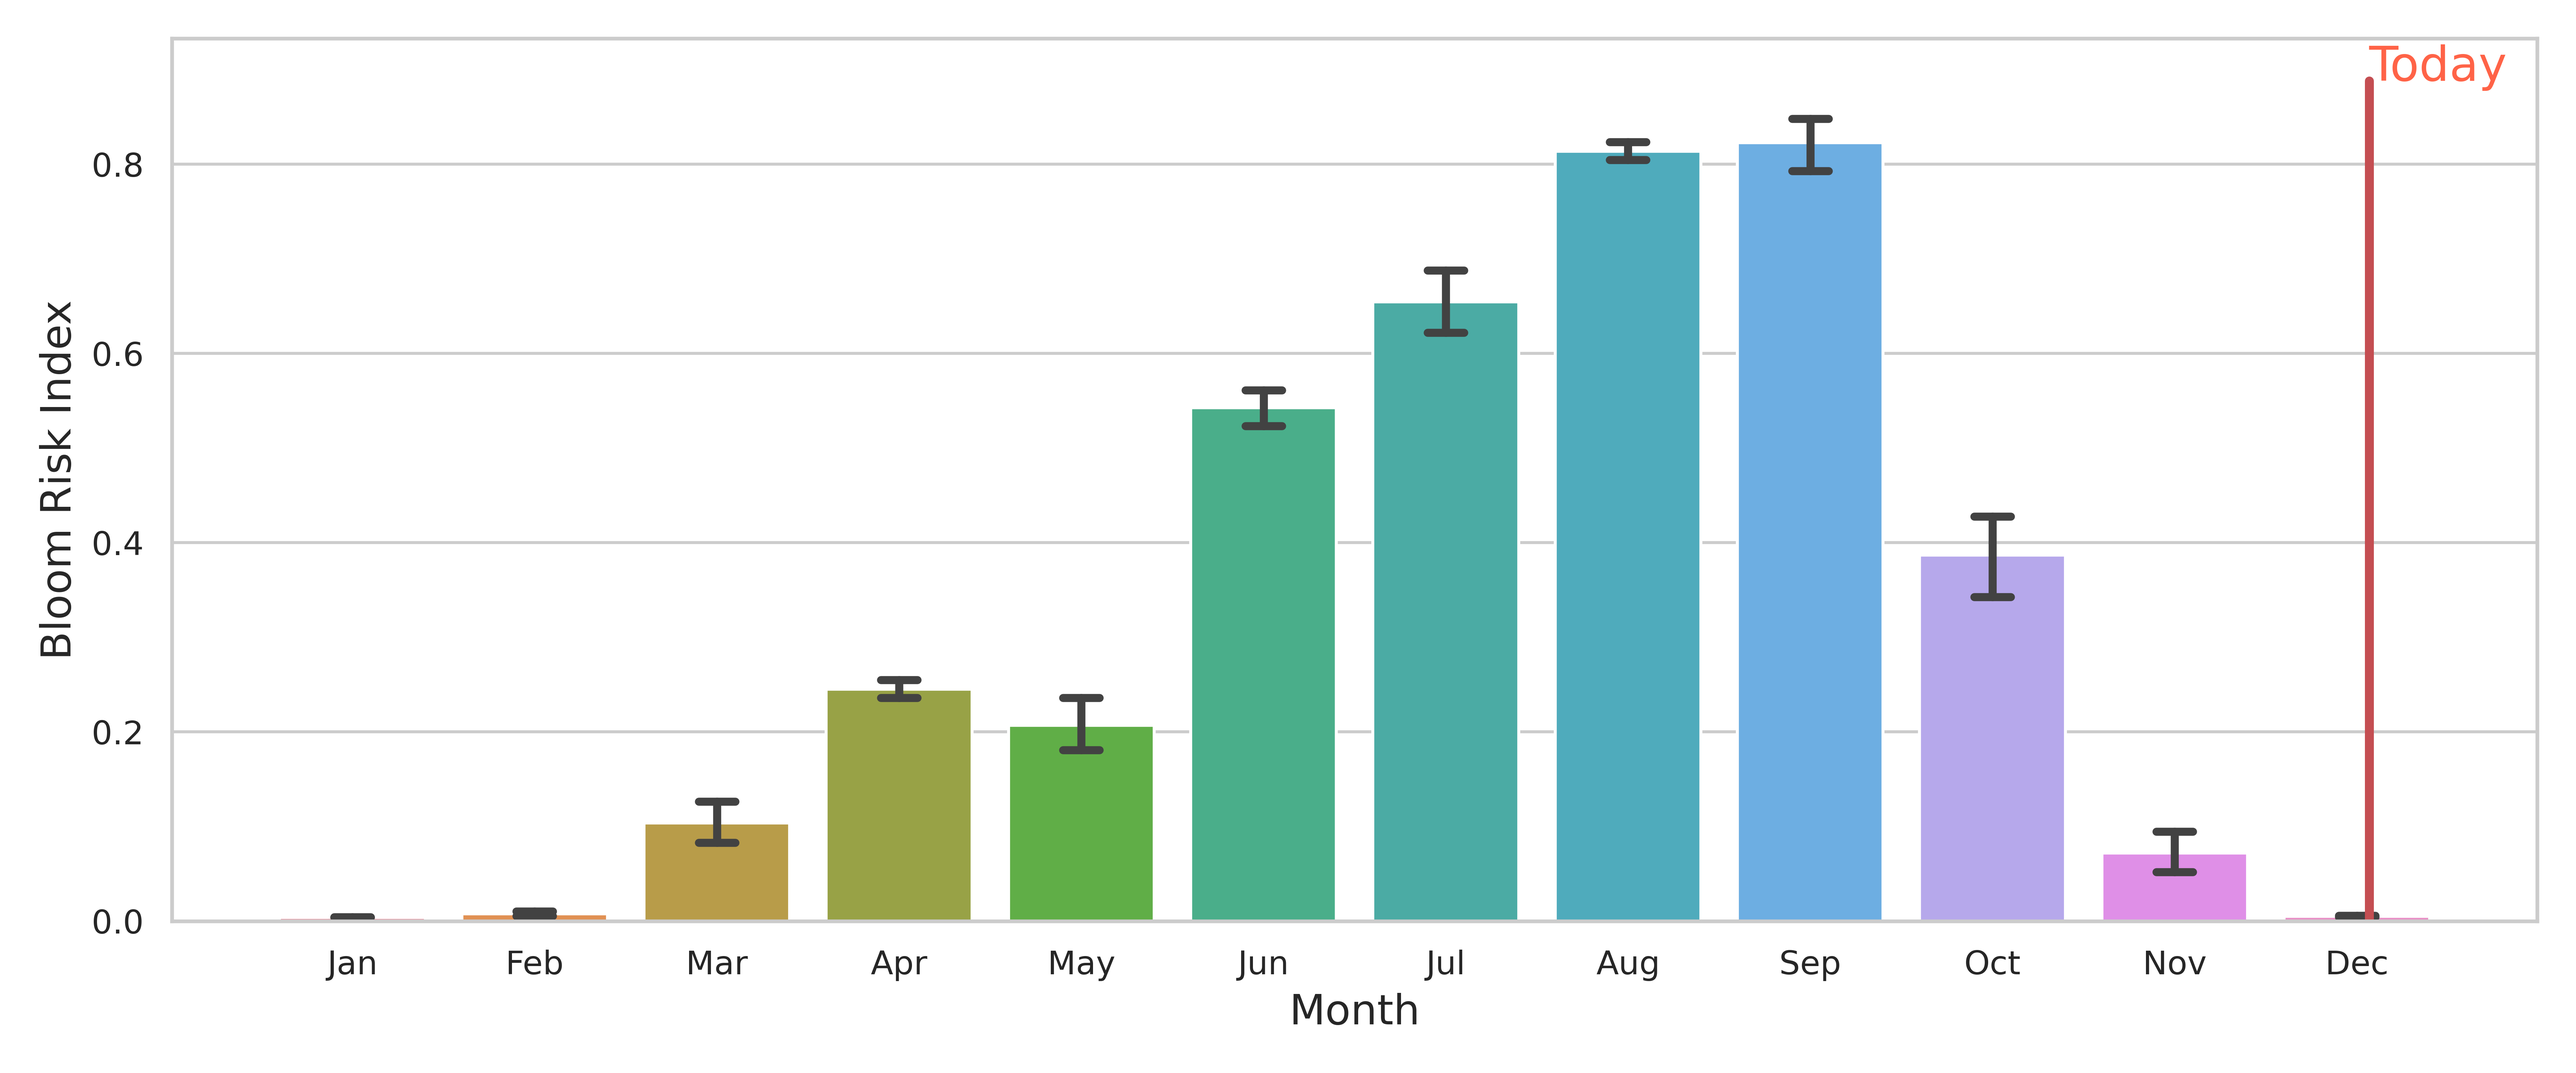
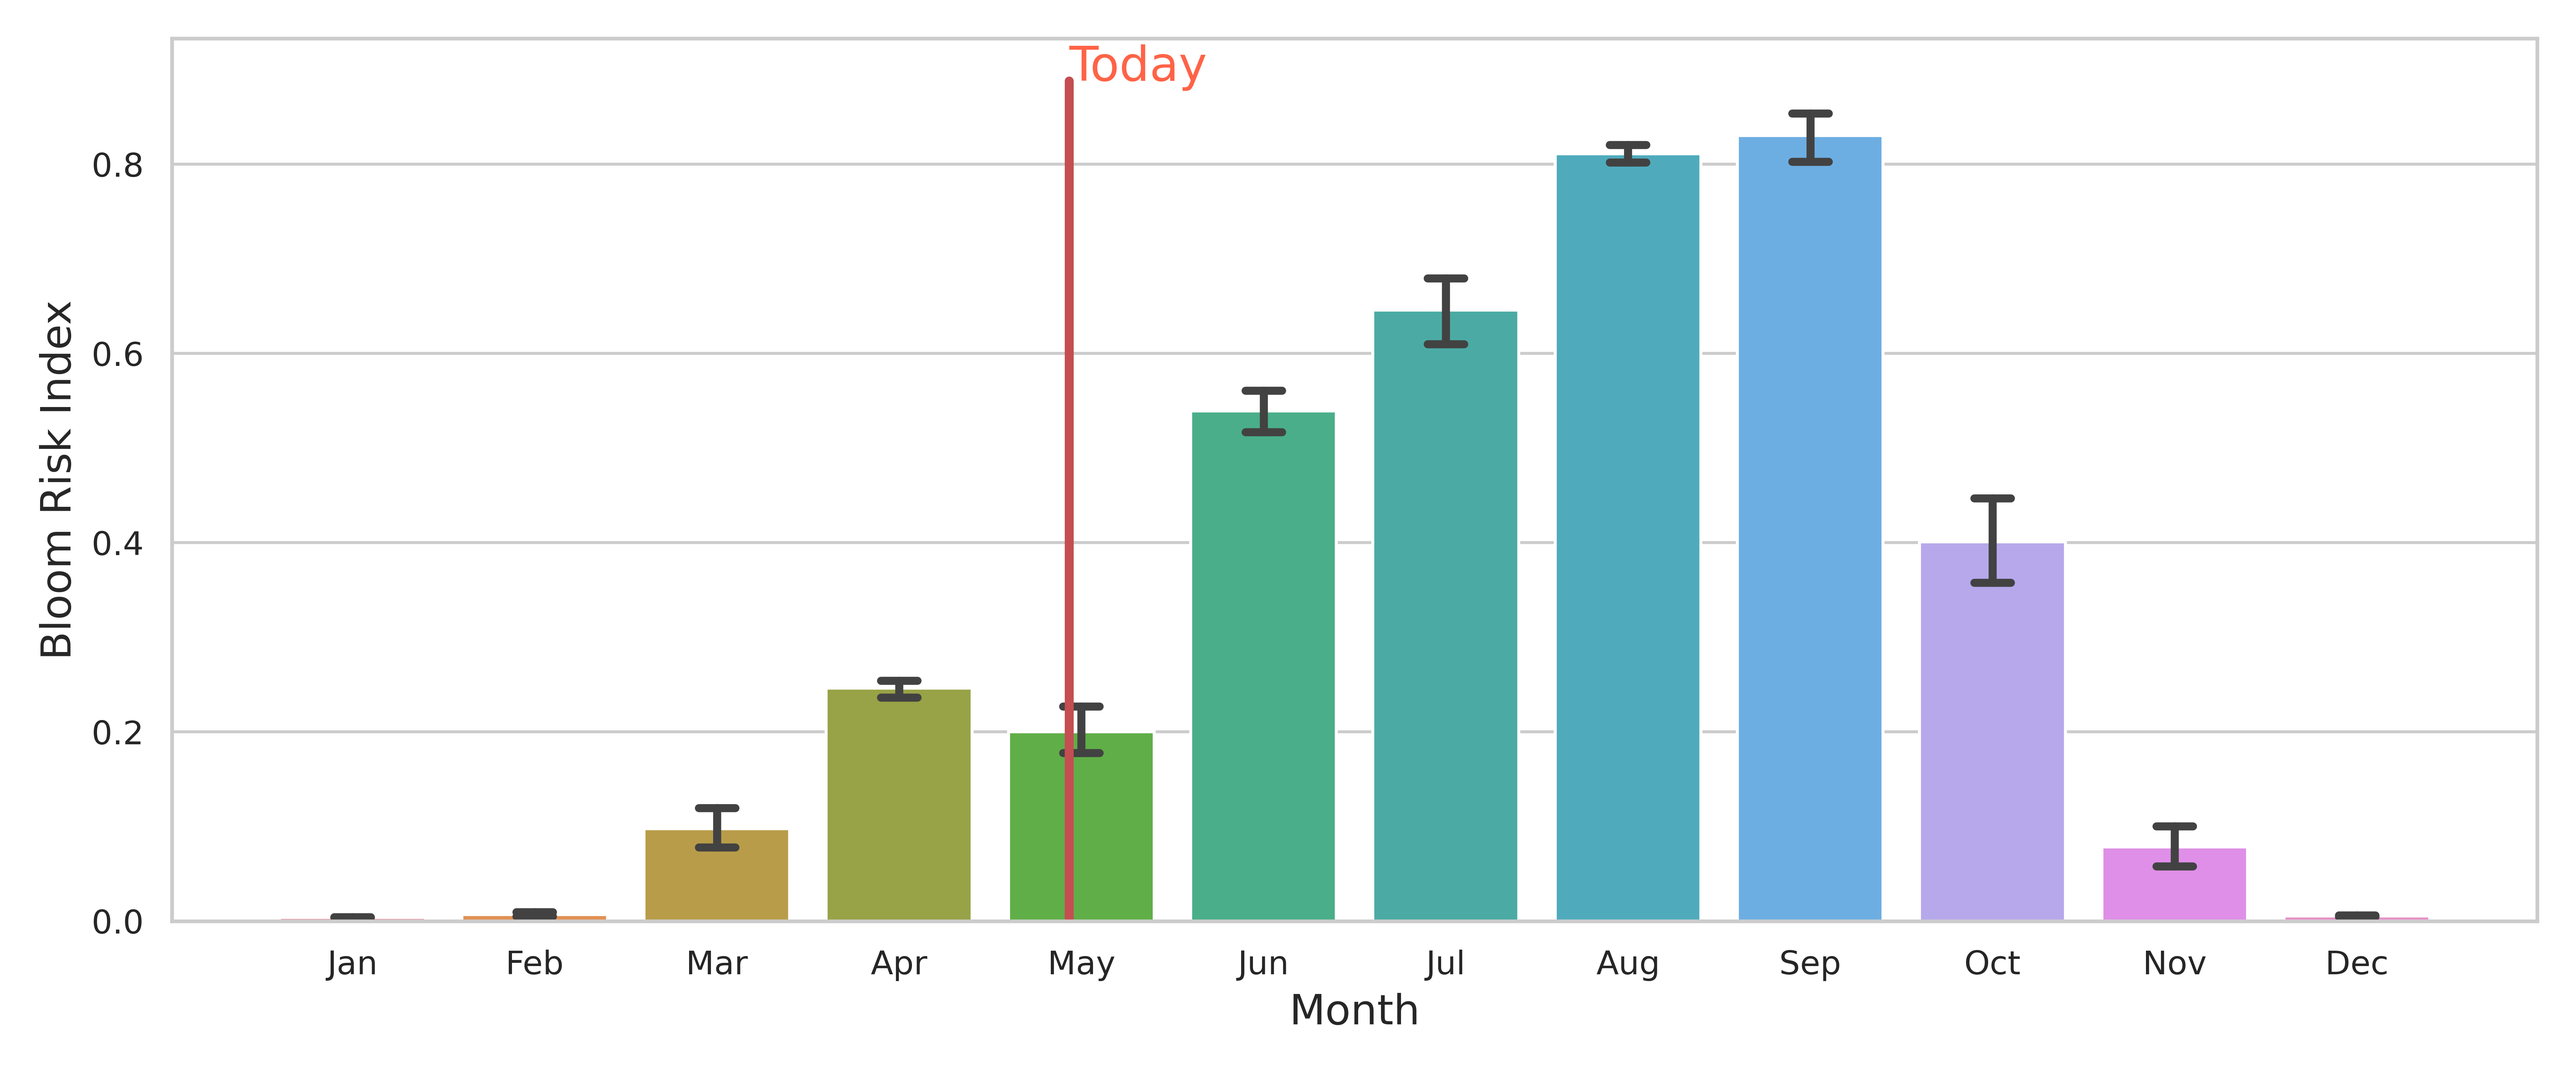
daily blog update

diff --git a/_posts/2023-04-28-blog002.md b/_posts/2023-04-28-blog002.md
@@ -1,0 +1,44 @@
+---
+title: "Apr 28, 2023"
+excerpt: "HAB update"
+image: /assets/images/woodcliff.jpg
+tags: 
+  - hab
+  - prediction
+---
+
+Click here to see the live and interactive [Harmful Algal Bloom dashboard](https://woodcliff.clrwater.io/).
+
+## 7-day Look Ahead Bloom Forecast
+Below are pie charts describing the __probability of a cyanobacterial bloom__. The chart on the left describes the predictions from two weeks ago, and the one on the right describes the latest prediction, for the coming week. 
+![image-center]({{ site.url }}{{ site.baseurl }}/assets/images/20230428/Fig_prediction.png)
+__Probabilities of occurrence (%) of an algal bloom from two weeks ago (left) and for the next 7 days (right).__
+
+## Hotspot Analysis - Chlorophyll-a
+This map shows you the latest estimates of __chlorophyll-a__ from the Sentinel 2a satellite. Note that the color scale is normalized to highlight the hotspots in the image. The colorscale does not provide an indication of the absolute amount of chlorophyll-a in the water and should be interpreted as an "index" of chlorophyll-a.
+![image-center]({{ site.url }}{{ site.baseurl }}/assets/images/20230428/Fig_chla.png){: .align-center}
+<br clear="all" />
+__Latest chlorophyll-a map from the Sentinel 2a satelllite.__
+
+## Hotspot Analysis - CyAN
+This map shows you the latest estimates of the concentration of cyanobacteria (cells/ml) from the EPA CyAN program.
+![image-center]({{ site.url }}{{ site.baseurl }}/assets/images/20230428/Fig_cyan.png){: .align-center}
+<br clear="all" />
+__Latest CyAN map from the EPA.__
+
+## Where we are in the season
+This plot shows the __historical expectation for HAB risk__ over the year. Use this chart to see where we are in the season (identified by the vertical red line). 
+![image-center]({{ site.url }}{{ site.baseurl }}/assets/images/20230428/Fig_climatology.png){: .     align-center}
+__Harmful algal bloom risk over the year__.
+
+## How rainy has it been? 
+We know that in general certain weather conditions promote the likelihood of HABs. Check this chart to see 
+how __wet__ it is, relative to past years. This is simply adding up each day's rainfall, for each year. If the red line is below the orange line, then this year is dryer than average.
+![image-center]({{ site.url }}{{ site.baseurl }}/assets/images/20230428/Fig_precip_cumsum.png){: .     align-center}
+__Precipitation at the lake compared to previous years__.
+
+## How hot has it been? 
+We know that in general certain weather conditions promote the likelihood of HABs. Check this chart to see 
+how __hot__ it is, relative to past years. This is simply adding up each day's temperature, for each year. If the red line is above the orange line, this year is hotter than average.
+![image-center]({{ site.url }}{{ site.baseurl }}/assets/images/20230428/Fig_temp_cumsum.png){: .     align-center}
+__Air temperature at the lake compared to previous years__.
